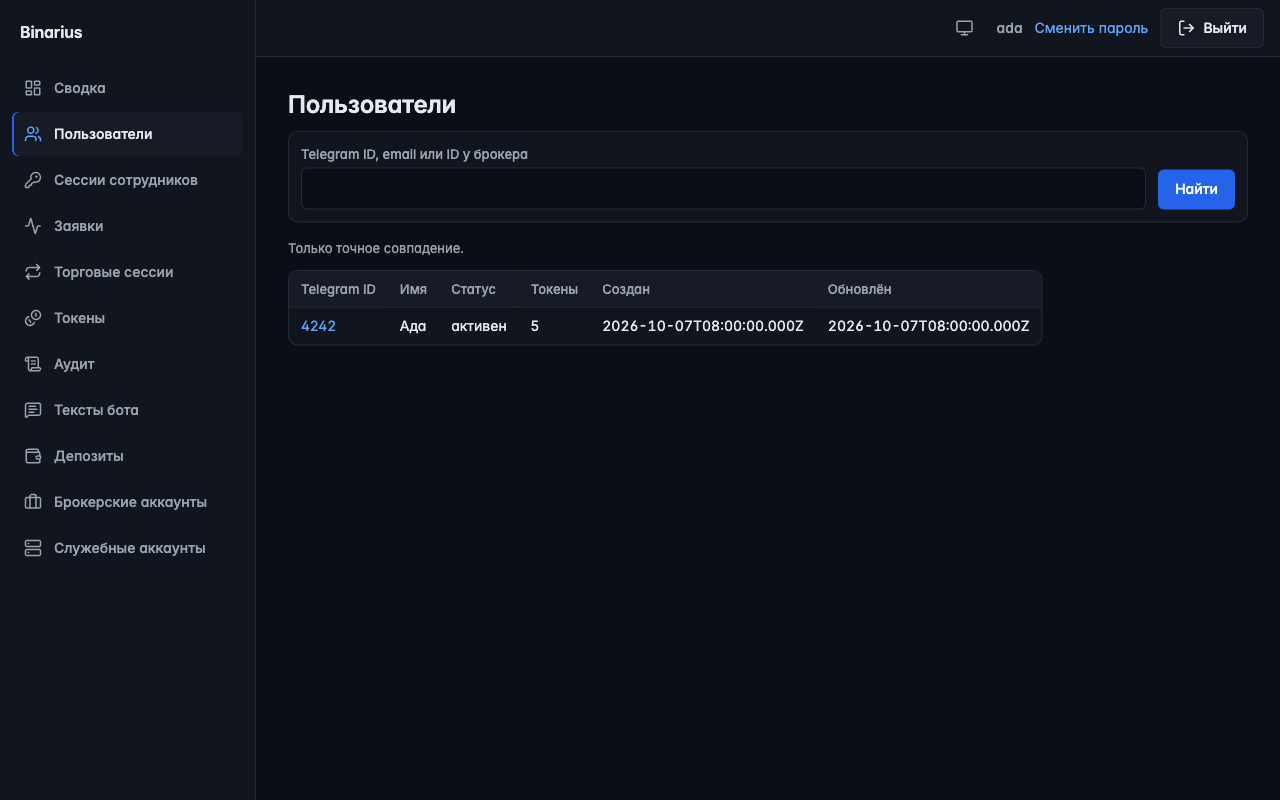
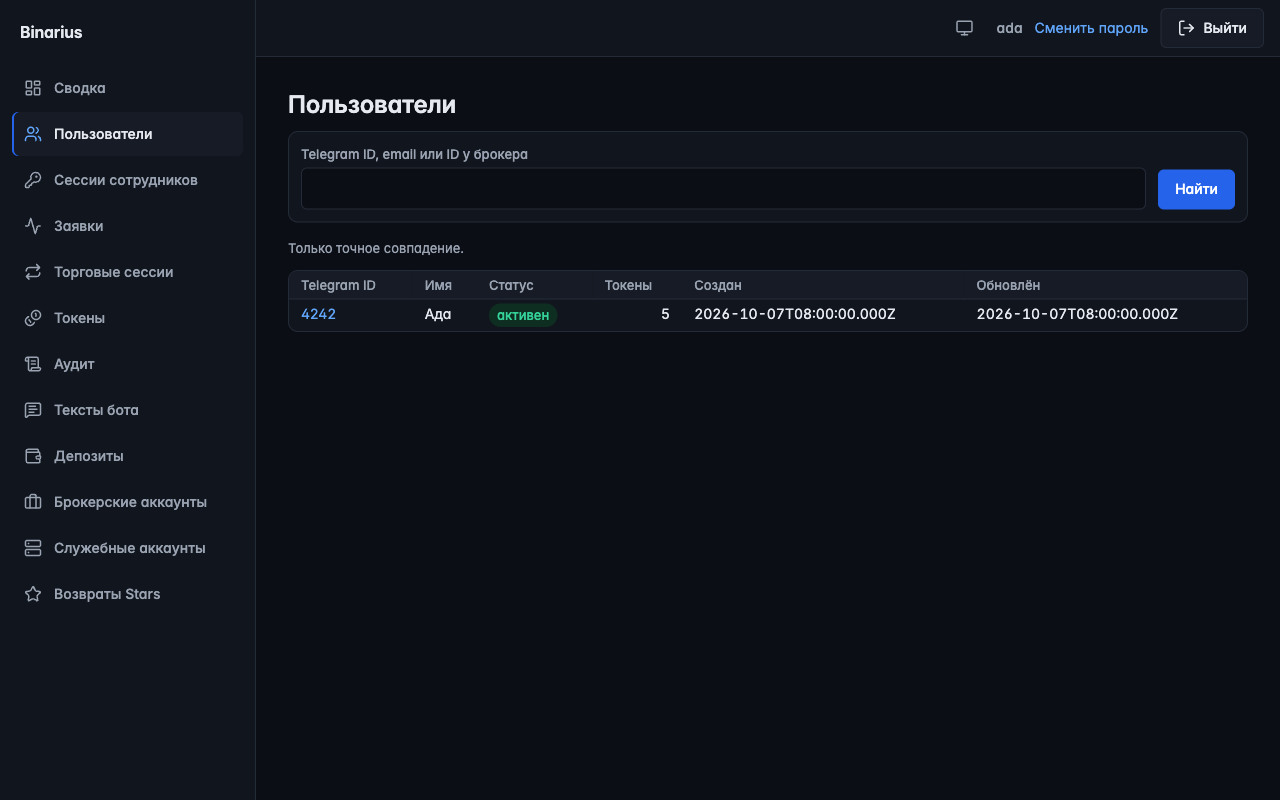
#656: docs - the table and row card, the status colours, the copy button, screenshots of the lists and cards

diff --git a/docs/admin-design-system.md b/docs/admin-design-system.md
@@ -5,7 +5,8 @@ stays as it was: routes, staff sessions, audit and the `Origin` check do not cha
 This document is what a new admin section is laid out from. The pages themselves are described in
 [admin-pages.md](admin-pages.md).
 
-Screenshots of part 1 (dark/light, desktop 1280×800 and phone 375×812): `docs/admin/screenshots/`.
+Screenshots of part 1 and of the lists and cards of #656 (dark/light, desktop 1280×800 and phone
+375×812): `docs/admin/screenshots/`.
 
 ## Files
 
@@ -15,7 +16,7 @@ Screenshots of part 1 (dark/light, desktop 1280×800 and phone 375×812): `docs/
 | `apps/web/src/admin/static/admin.css` | `@font-face` and every component, only through `var(--…)` |
 | `apps/web/src/admin/static.ts` | `ADMIN_CSS` (= `themeCss()` + `admin.css`), `ADMIN_FONTS`, the static paths, `MINI_APP_CSS` |
 | `apps/web/src/admin/icons.ts` | the Lucide icons, `iconSprite()`, `icon(name)` |
-| `apps/web/src/admin/client.ts` | `ADMIN_CLIENT_JS`, the one script: the theme switch |
+| `apps/web/src/admin/client.ts` | `ADMIN_CLIENT_JS`, the one script: the theme switch and the copy button |
 | `apps/web/src/admin/pages.ts` | `adminLayout`, `adminShell`, `authShell`, `adminNoticePage` and the pages |
 | `apps/web/src/admin/export-pages.ts` | the pages as static files, for screenshots |
 | `apps/web/src/admin/static/fonts/` | Inter 400/500/600 woff2 and `OFL.txt` |
@@ -159,18 +160,70 @@ All defined in `admin.css`; markup to use:
 | section | `<section class="section"><h2>…</h2>…</section>` |
 | metric cards | `<dl class="metrics"><div class="metric"><dt>Label</dt><dd>31</dd></div>…</dl>`; `metrics metrics-dense` for a long breakdown |
 | entity card | `<dl class="props"><dt>…</dt><dd>…</dd>…</dl>` (a plain `<dl>` is a two-column list too) |
-| table | `<div class="table-wrap"><table><thead><tr><th>…</th></tr></thead><tbody>…</tbody></table></div>`; `td.num` right-aligns a number |
-| badge | `<span class="badge badge-success">…</span>`; `-warning`, `-danger`, `-info`, `-neutral` |
+| table | `table(columns, rows)` in `pages.ts`: `<div class="table-wrap"><table class="table"><thead><tr><th>…</th></tr></thead><tbody><tr><td data-label="…">…</td>…</tr></tbody></table></div>`; `td.num` right-aligns a number (see Table and row card) |
+| badge | `badge(variant, body)`: `<span class="badge badge-success">…</span>`; `-warning`, `-danger`, `-info`, `-neutral`; a `<code>` inside drops its own background |
 | buttons | `<button type="submit">` is primary; `class="btn btn-secondary"`, `class="btn btn-danger"`; `class="icon-btn"` with an `aria-label` for an icon alone |
-| form | `<form class="stack">` with `<label>Text <input …/></label>`; `form.search` / `.toolbar` for a filter row; `label.choice` for a radio or checkbox |
+| form | `<form class="stack">` with `<label>Text <input …/></label>`; `form.search` / `.toolbar` for a filter row (a column of full-width fields up to 30rem); `label.choice` for a radio or checkbox |
 | messages | `<p class="error">`, `<ul class="error">`, `<p class="notice">`, `<p class="hint">` |
-| pager | `<p class="pager"><a href="…">…</a></p>` (as the list pages render it) |
-| empty state | `<p class="empty">…</p>` |
+| pager | `<p class="pager"><a href="…">…</a></p>`: plain links, styled as secondary buttons by `.pager > a` |
+| empty state | `empty(text)`: `<p class="empty">…</p>`, in place of the table |
+| copy an id | `idCode(value)`: `<code>…</code>` and its copy button (see Table and row card) |
 
-The section bodies other than the overview keep their markup from before #459; the element rules
-(`table`, `dl`, `form.search`, `label`, `details`, `.tg-bubble`, …) restyle it. Until #656 turns
-table rows into cards, every table in `<main>` is as wide as its content and scrolls inside itself
-when that is wider than the page, so no page scrolls sideways.
+The lists and the user and intent cards are built from these components (#656). The audit log, the
+service accounts (#817) and the bot texts (#657) keep their markup from before #459; the element
+rules (`table`, `dl`, `form.search`, `label`, `details`, `.tg-bubble`, …) restyle it, and each of
+their tables (`main table:not(.table)`) is as wide as its content and scrolls inside itself when
+that is wider than the page, so no page scrolls sideways. #657 removes that rule with the last such
+table.
+
+## Table and row card
+
+Every list is `table(columns, rows)` (`pages.ts`). A column is `{ label, num?, className? }`; its
+`label` is the `<th>` text and the `data-label` of each of its cells — one source, so a card's
+labels are the header's. A column with an empty label (the staff sessions' «Завершить») has no
+`data-label`, and its cell takes the card's full width. `num` puts `class="num"` on the cell: right-
+aligned with `tabular-nums` at full width. `rowClass` gives a row a class (`tr.current` of the
+current staff session); every other `<tr>` has no attribute. A table with an optional column (the
+owner of the broker accounts and Stars payments lists) builds the column and the cell from the same
+condition, so a label never shifts.
+
+From 64rem: a dense table, one line a row (`white-space: nowrap`; a `.wrap` cell — a note, a user
+agent — wraps up to 22rem). A table wider than the content column (broker accounts, 15 columns;
+trading sessions, 13) scrolls inside `.table-wrap` (`overflow-x: auto`); the page itself never
+scrolls sideways. **The header row is not sticky**: `.table-wrap` with `overflow-x: auto` is a
+scroll container, and a sticky `<thead>` sticks to its nearest scroll container — one that does not
+scroll vertically — so it would never move. Pinning the header to the page would need the wide
+tables to widen the page (or a second, vertical scroll area); the scroll inside the frame was
+chosen (#656, manager's decision on clarify).
+
+Below 64rem (CSS only, no script): `thead` is hidden, each `<tr>` is a framed card and each `<td>`
+a line of it — `td::before { content: attr(data-label) }` in the muted colour, floated into the
+cell's left padding (`--card-label-w`, 7rem), the value in the rest; a long id or time wraps.
+
+Statuses are badges; the colour of each status (`satisfies Record<Status, BadgeVariant>` in
+`pages.ts`, so a new status does not compile without one):
+
+| Status set | success | warning | danger | info | neutral |
+|---|---|---|---|---|---|
+| `UserStatus` | `active` | | `blocked` | | |
+| `TradeIntentStatus` | `settled` | `manual_review`, `unknown` | `rejected` | `planned`, `reserved`, `queued`, `submitting`, `accepted`, `reconciling` | |
+| `TradingSessionStatus` | `active` | `paused` | | | `stopped` |
+| `BrokerAccountStatus` | `active` | `pending` | `revoked` | | |
+| `DepositEventStatus` | `credited` | | `failed` | `received` | `ignored` |
+| `StarPaymentStatus` | `paid` | `held` | | | `refunded` |
+
+Modes, directions, stop reasons, kinds and errors stay plain `<code>`: they are codes, not states.
+
+**Copy an id.** `idCode(value)` prints `<code>value</code>` and
+`<button type="button" class="icon-btn copy no-js-hidden" data-copy="value" aria-label="Копировать" data-label-copy="Копировать" data-label-copied="Скопировано">`
+with the `copy` and `check` icons. `client.ts` listens for clicks on the document: a click inside a
+`[data-copy]` writes its value with `navigator.clipboard.writeText`; on success the label becomes
+`data-label-copied` and the `check` icon shows for 1.5 s, then both go back; a refused write
+changes nothing. Without JavaScript the button is hidden (`no-js-hidden`); without
+`navigator.clipboard` (plain http, an old browser) the script hides every `[data-copy]` on
+`DOMContentLoaded`. Either way the id beside it can be selected. In a table the button is 1.75rem —
+below the 40px of the other buttons, on purpose: it is an extra over a selectable value inside a
+row; in a card it is a full `.icon-btn`. A link to a card (an intent id in a list) has no button.
 
 Accessibility: the skip link is the first element of `<body>`; `:focus-visible` draws a 2px
 `--color-focus` ring; the current section has `aria-current="page"`; buttons and nav links are at

diff --git a/docs/admin-pages.md b/docs/admin-pages.md
@@ -86,6 +86,19 @@ switch is hidden and the system setting decides.
 `GET /admin` redirects to `/admin/overview`; after a login the landing page is still
 `/admin/sessions`. Timestamps are printed as the ISO instants the backend sent.
 
+The lists (#656) — users, staff sessions, intents, trading sessions, the token ledger, deposits,
+broker accounts, Stars refunds, and the tables of the user card — are one table component
+([admin-design-system.md → Table and row card](admin-design-system.md#table-and-row-card)): from
+64rem a dense table, one line a row, a table wider than the content column scrolling inside its own
+frame (the header row is not pinned); below 64rem every row is a card, each value under its
+column's name. A status is a coloured badge around its old text or code (the colour of each status
+is the table in that section); «В начало»/«Далее» look like buttons; an empty list is a framed
+«… нет.». The ids a page prints as a code (an account, a payment, a reference of the ledger, the
+ids of the user and intent cards) carry a «Копировать» button; it is there only with JavaScript and
+a browser clipboard (an https page), and the id stays selectable without it. The cards are a framed
+list of fields per section. The audit log and the service accounts keep their tables from before
+(#817), as do the bot texts (#657).
+
 ### Overview — `GET /admin/overview`
 
 One `SELECT` with subqueries, so all the numbers come from one snapshot and agree with each other:
@@ -276,7 +289,8 @@ Every key of the intent's wire view: the 17 fields the bot sees (`GET /trading/i
 three only staff navigate by — `userId` (a link to the user card), `tradingSessionId` (with
 «Заявки этой сессии →», the list filtered by that session) and `reconcileClaimedAt`: when the
 reconciliation pass last took the intent (its lease, #89); empty — never. `brokerAccountId` is
-text. An empty value is shown as «—». The card reads any user's intent: it is behind the staff
+printed as its code, not a link. The status is a badge around its code; the five ids (the intent,
+the user, the account, the trading session, the client request) each have a copy button. An empty value is shown as «—». The card reads any user's intent: it is behind the staff
 session, not the bot's owner-scoped read.
 
 ### Trading sessions — `GET /admin/trading-sessions?cursor=`
@@ -286,7 +300,7 @@ session, not the bot's owner-scoped read.
 `broker_accounts` and `users`. Columns: the session id with «Заявки →» (the intents list filtered by
 this session), the owner's Telegram id (a link to the user card), the broker id, mode, status, stop
 reason, then asset, duration, length («Длина»: «5 циклов» for settings v3, «5 сделок» for v1/v2,
-#552) and base stake from `settings`, then started, ended and last decision. Codes are printed as codes, an empty value as «—».
+#552) and base stake from `settings`, then started, ended and last decision. Codes are printed as codes, the status as its code in a badge, an empty value as «—».
 
 `settings` is parsed against every version (`tradingSessionSettingsSchema`) at read, as the
 orchestrator and the bot's view do: a row that does not parse — the column default `{}`, an extra
@@ -343,7 +357,7 @@ something a view checks.
 other lists: one `SELECT` left-joined to `users` for the owner's Telegram id (`listDepositsForAdmin`,
 `packages/db/src/admin-ledger-ops.ts`). Columns: the time of the row, the owner's Telegram id (a link
 to the user card), the broker account id, the trader id the postback named (`broker_user_id`), the
-payment id, the amount, the currency, the status as its code, the time it was processed. The amount
+payment id, the amount, the currency, the status as its code in a badge, the time it was processed. The amount
 is the stored `numeric(20,8)` as PostgreSQL prints it (`10.50000000`); nothing is computed from it.
 An empty value is shown as «—»; the trader id, the payment id and the amount are never empty
 (#141: `NOT NULL`).
@@ -383,7 +397,7 @@ is now and says nothing about its history.
 per page, keyset on `(created_at, id)` as on the other lists: one `SELECT` joined to `users` for the
 owner's Telegram id (`listBrokerAccountsForAdmin`, `packages/db/src/admin-read-ops.ts`). Columns:
 the owner's Telegram id (a link to the user card), the account id, then the columns of the user
-card's section — broker id, address, partner client, status (its Russian label, as on the card),
+card's section — broker id, address, partner client, status (its Russian label in a badge, as on the card),
 revocation reason, halt and its reason (both codes), token expiry and rotation, «Служебный» (#391),
 «H1» (#745), created and updated.
 An empty value is shown as «—»; the times are the ISO instants the backend sent, the token expiry
